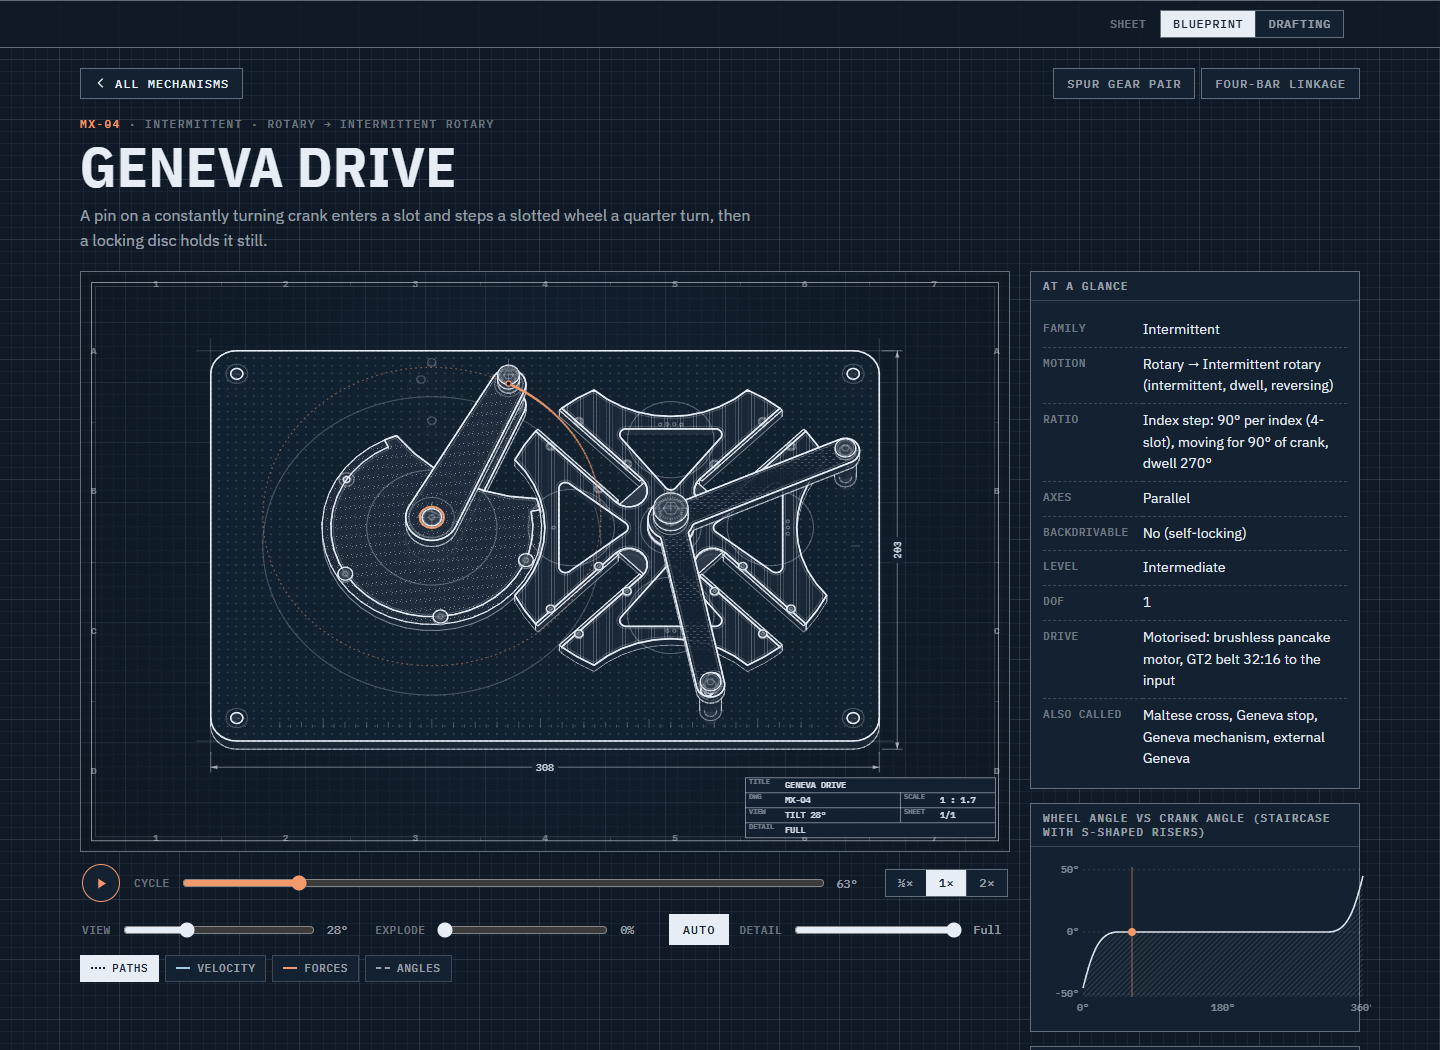
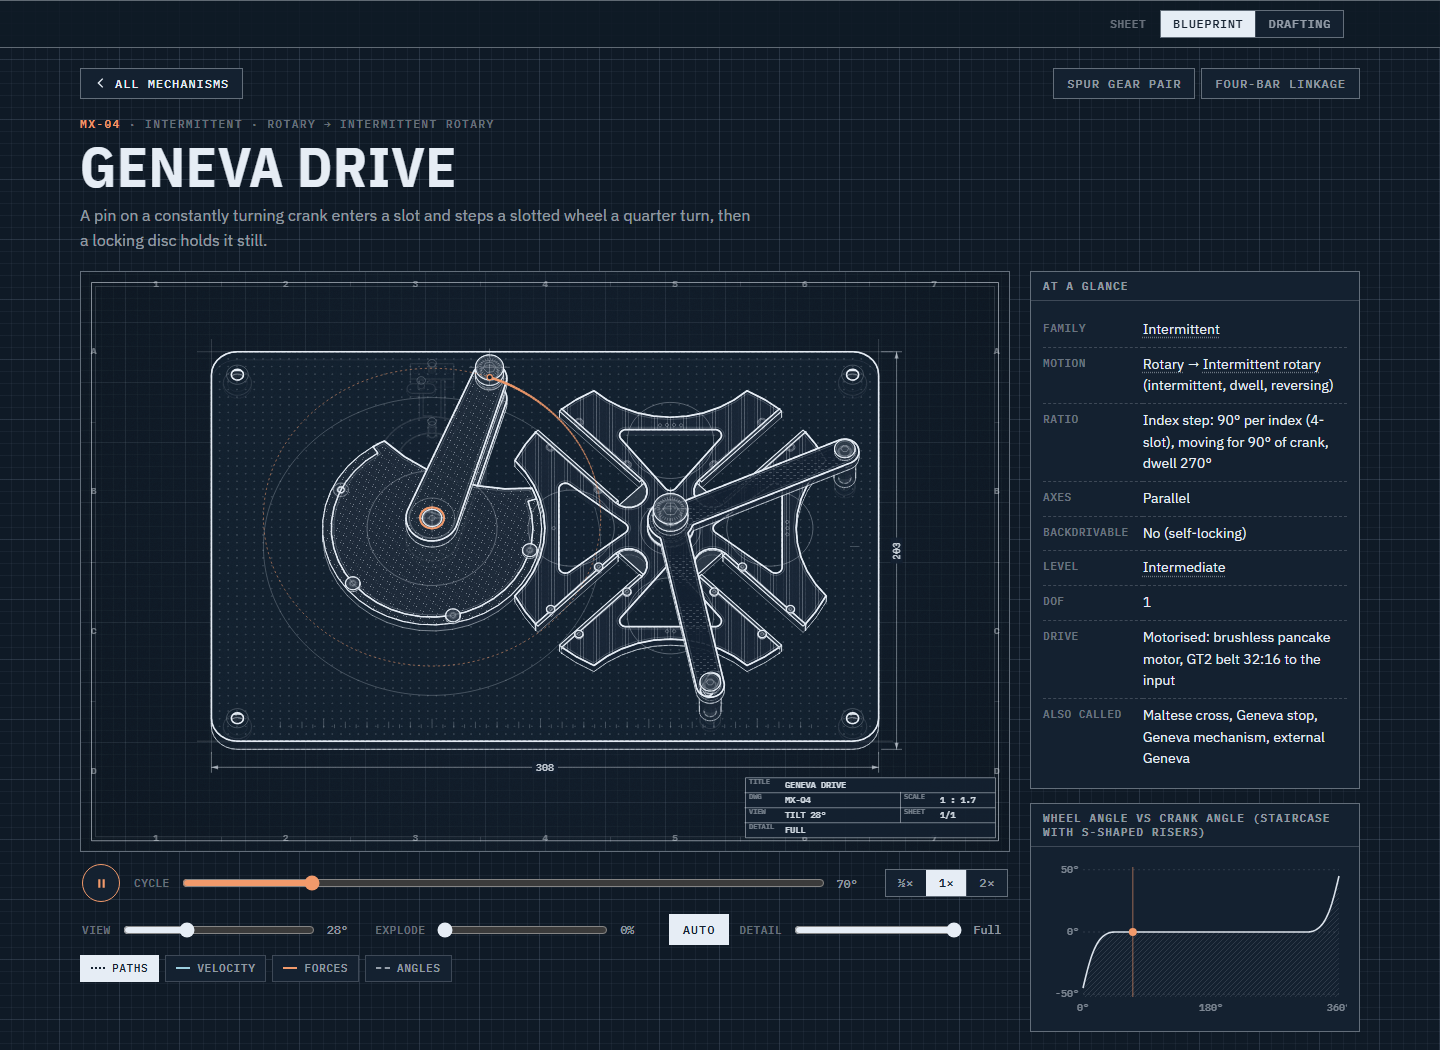
feat: tags in a full-width band, linkable facts and tags on the mechanism page (#55)
The side column ran about 500 px past the stage and the explanation waited below it. The tags now sit in a full-width band above the explanation, one column per group. Tags and the at-a-glance family, input, output and level link to the library, which reads its filters and search from the address. The output plot fits inside its panel.

diff --git a/site/styles/components.css b/site/styles/components.css
@@ -312,7 +312,8 @@
   border: 1px dashed var(--line-2);
   padding: 0 6px;
 }
-.tag:hover {
+.tag:hover,
+.tag:focus-visible {
   color: var(--ink);
   border-style: solid;
 }
@@ -481,22 +482,21 @@
 .facts dd {
   margin: 0;
 }
+.facts a {
+  text-decoration: underline dotted var(--faint);
+  text-underline-offset: 3px;
+}
+.facts a:hover {
+  text-decoration: underline solid var(--accent);
+}
 .facts dt:nth-last-child(2),
 .facts dd:last-child {
   border-bottom: 0;
 }
 .plot canvas {
-  width: 100%;
+  width: calc(100% - 24px); /* inside the panel's 12px margins */
   height: 160px;
   display: block;
-}
-.tagsets {
-  display: grid;
-  gap: 10px;
-}
-.tagsets > div {
-  display: grid;
-  gap: 5px;
 }
 .tag.ro {
   border-style: solid;
@@ -571,6 +571,31 @@
 .uses span {
   color: var(--body);
   font-size: 14px;
+}
+.tagband {
+  margin-top: 34px;
+  padding-top: 20px;
+  border-top: 1px solid var(--line-2);
+  display: grid;
+  grid-template-columns: repeat(auto-fit, minmax(min(240px, 100%), 1fr));
+  gap: 14px 32px;
+}
+/* one column per group, the label over its chips, so the groups line up whatever their length */
+.tagband > div {
+  display: flex;
+  flex-wrap: wrap;
+  align-content: start;
+  gap: 5px;
+}
+.tagband .lbl {
+  flex-basis: 100%;
+  margin-bottom: 2px;
+}
+.tagband a.tag {
+  text-decoration: none;
+}
+.tagband + .explain {
+  margin-top: 22px;
 }
 .reflist {
   margin-top: 34px;

diff --git a/site/src/islands/filters.ts b/site/src/islands/filters.ts
@@ -52,3 +52,18 @@ clear?.addEventListener("click", () => {
   if (q) q.value = "";
   apply();
 });
+
+// a link from a mechanism page's tags: ?<facet>=<value> presses that chip and opens the panel, ?q=<words> searches
+const params = new URLSearchParams(location.search);
+let pressed = false;
+for (const c of chips)
+  if (params.getAll(c.dataset.f!).includes(c.dataset.v!)) {
+    c.setAttribute("aria-pressed", "true");
+    pressed = true;
+  }
+if (pressed && toggle && panel) {
+  toggle.setAttribute("aria-expanded", "true");
+  panel.hidden = false;
+}
+if (q && params.has("q")) q.value = params.get("q")!;
+if (pressed || params.has("q")) apply();

diff --git a/docs/style-reference.md b/docs/style-reference.md
@@ -1,8 +1,8 @@
 # Style reference (blueprint / drafting)
 
 ```
-version: 2.1
-date: 2026-10-17
+version: 2.2
+date: 2026-10-18
 supersedes: 1.0 (the hand-off style reference of 2026-10-16)
 ```
 
@@ -175,9 +175,9 @@ instruments' labels, not app widgets. Square corners, hairline rules, condensed 
 |---|---|
 | SS1 | **Library grid:** cards in an auto-fill grid (min 290 px, 20 px gap). A card is a sheet: the drawing in a framed field (4:3, a pre-rendered image until hover) with a title block under it: name (display, uppercase) and sheet number (mono, accent) on the first row, family · motion · level meta row, two-line summary, dashed tags. Hover: ink border plus accent corner ticks at two opposite corners, and the drawing animates. |
 | SS2 | **Header:** kicker (mono, accent), large condensed uppercase title, short intro, and a set title block (mono grid of label/value cells). Search field and the Filters button in the same row. |
-| SS3 | **Sticky bar:** segmented controls (theme Blueprint / Drafting) and the Filters button; translucent paper with blur, hairline top and bottom. Filters hidden behind the button; facets open as chip rows in a scrollable panel. |
+| SS3 | **Sticky bar:** segmented controls (theme Blueprint / Drafting) and the Filters button; translucent paper with blur, hairline top and bottom. Filters hidden behind the button; facets open as chip rows in a scrollable panel. The library takes `?<facet>=<value>` and `?q=<words>` from the address, so a page can link to a filtered set. |
 | SS4 | **Controls:** segmented buttons and chips are square, hairline, mono uppercase; pressed = ink fill with paper text. Tags are dashed outlines, solid on hover. The play button is the one round control (accent outline, fills on hover). Range inputs use `accent-color` (accent for the scrubber, ink for view sliders). |
-| SS5 | **Mechanism page order:** crumbs (back, prev / next), header (meta with sheet number, title, summary), the stage (drawing sheet, 16:10, 4:3 on phones) with controls (play, scrubber, speed, tilt, explode, detail pin) and overlay chips whose legend swatch uses the overlay's own token and dash style; side panels (at a glance including the drive, output plot, tags by group); explanation (numbered accent markers: motion, forces, benefits, limits, where you'll find it, in the real world); references, photos and video, animations. No parts list, no "how it is built", no joint sections. |
+| SS5 | **Mechanism page order:** crumbs (back, prev / next), header (meta with sheet number, title, summary), the stage (drawing sheet, 16:10, 4:3 on phones) with controls (play, scrubber, speed, tilt, explode, detail pin) and overlay chips whose legend swatch uses the overlay's own token and dash style; side panels (at a glance including the drive, its family, input, output and level linking to the library filtered by them; output plot); tags in a full-width band, one column per group (function, property, application, keywords), each tag linking to the library filtered or searched by it; explanation (numbered accent markers: motion, forces, benefits, limits, where you'll find it, in the real world); references, photos and video, animations. No parts list, no "how it is built", no joint sections. |
 | SS6 | **Panels:** paper fill, hairline frame, a mono uppercase header strip with a rule under it; fact lists as label/value rows with dashed separators. |
 | SS7 | **Theme switch** is a site-wide segmented control, remembered per visitor (local storage, wrapped in try/catch), defaulting to the visitor's light/dark preference. Switching redraws every visible canvas and the page in one step. |
 | SS8 | **Real pages:** one static page per mechanism at `/mechanisms/<id>/`, prev and next from the catalogue order, the library at `/`. The engine loads only on the mechanism page or on card hover. |
@@ -590,6 +590,9 @@ The order of the rungs is the one in standard 9b; re-ranking a rung is a change 
 
 ## Changelog
 
+- **2.2 (2026-10-18).** Mechanism page (SS5): tags leave the side column for a full-width band above the
+  explanation, and tags and the at-a-glance family, input, output and level link to the library filtered by them
+  (SS3).
 - **2.1 (2026-10-17).** Part VI generated from the style files [STYLE]; the page grid alphas are `--grid-1` and
   `--grid-2` (`--grid` is the grid colour) [STYLE].
 - **2.0 (2026-10-17).** Rewritten for the rebuilt engine: glow scheme removed; style files renamed and `detail.ts`

diff --git a/README.md b/README.md
@@ -20,7 +20,7 @@ references, so the drawing and the text describe the same thing.
 
 ## Using a mechanism's page
 
-![A mechanism's page: the drawing with its controls on the left, the facts, the output plot and the tags on the right](docs/images/page.png)
+![A mechanism's page: the drawing with its controls on the left, the facts and the output plot on the right](docs/images/page.png)
 
 **The drawing and its controls**
 
@@ -38,9 +38,9 @@ references, so the drawing and the text describe the same thing.
 **Around the drawing**
 
 - **At a glance:** family, kind of motion, ratio, axes, whether it can be driven backwards, level, degrees of
-  freedom and how this build is driven.
+  freedom and how this build is driven. Family, motion and level link to the library filtered by them.
 - **The plot:** the output over one cycle, with a marker that follows the drawing.
-- **Tags:** what it does, its properties and where it is used.
+- **Tags:** what it does, its properties and where it is used, each a link to the mechanisms that share it.
 - **How it moves, Forces, Why use it, Limits:** a short explanation in four parts.
 - **Where you will find it** and **In the real world:** typical uses and real products that use it.
 - **References, photos, video and animations** for further reading.

diff --git a/CHANGELOG.md b/CHANGELOG.md
@@ -1,5 +1,13 @@
 # Changelog
 
+## 0.11.0 — 2026-10-18
+
+- Mechanism pages: the tags move from the side column to a full-width band above the explanation, one column per
+  group, so the explanation follows the stage with no empty area under it (style reference 2.2, SS5).
+- Tags and the at-a-glance family, input, output and level link to the library, filtered by that value or searching
+  for it; the library reads its filters and search from the address (SS3).
+- The output plot no longer runs past the right edge of its panel.
+
 ## 0.10.1 — 2026-10-18
 
 - The base plate lets a tenth of the parts under it show through, as meant in 0.7.0: the parts passing through it cut
